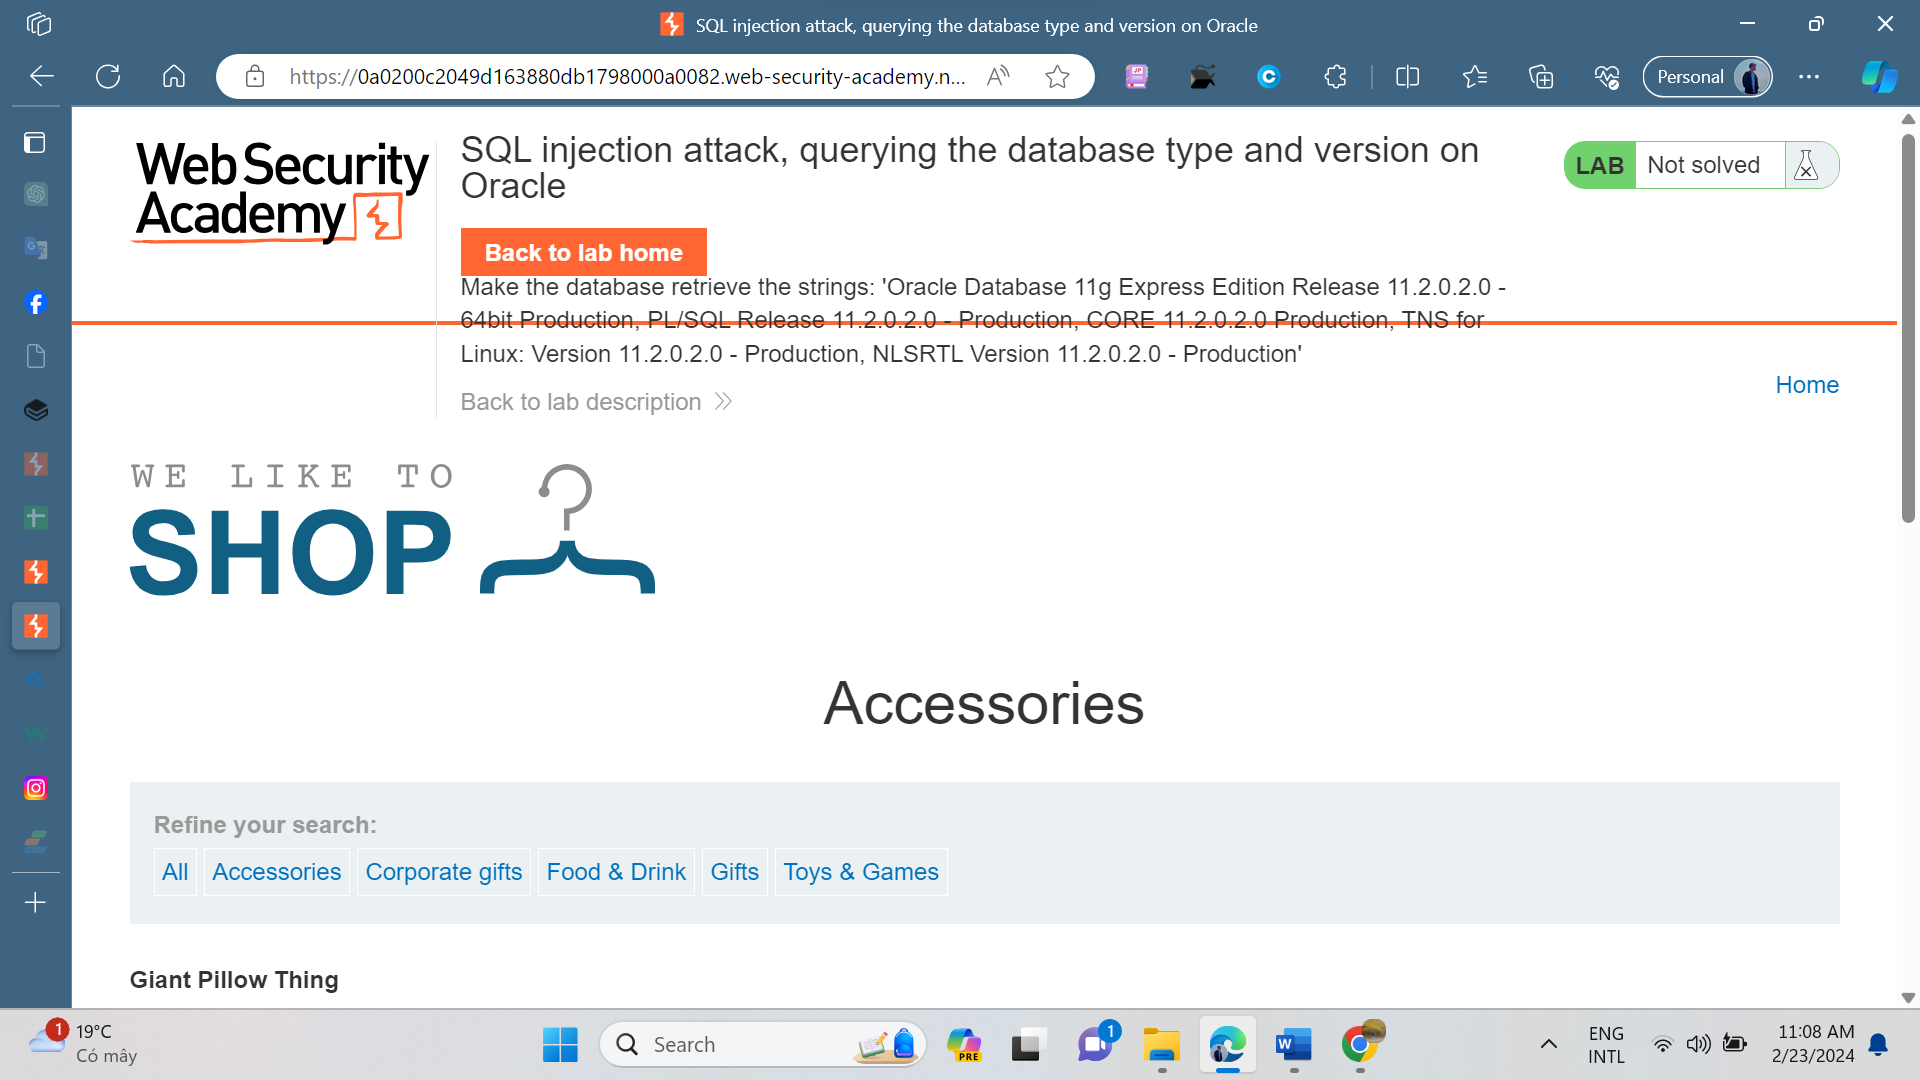
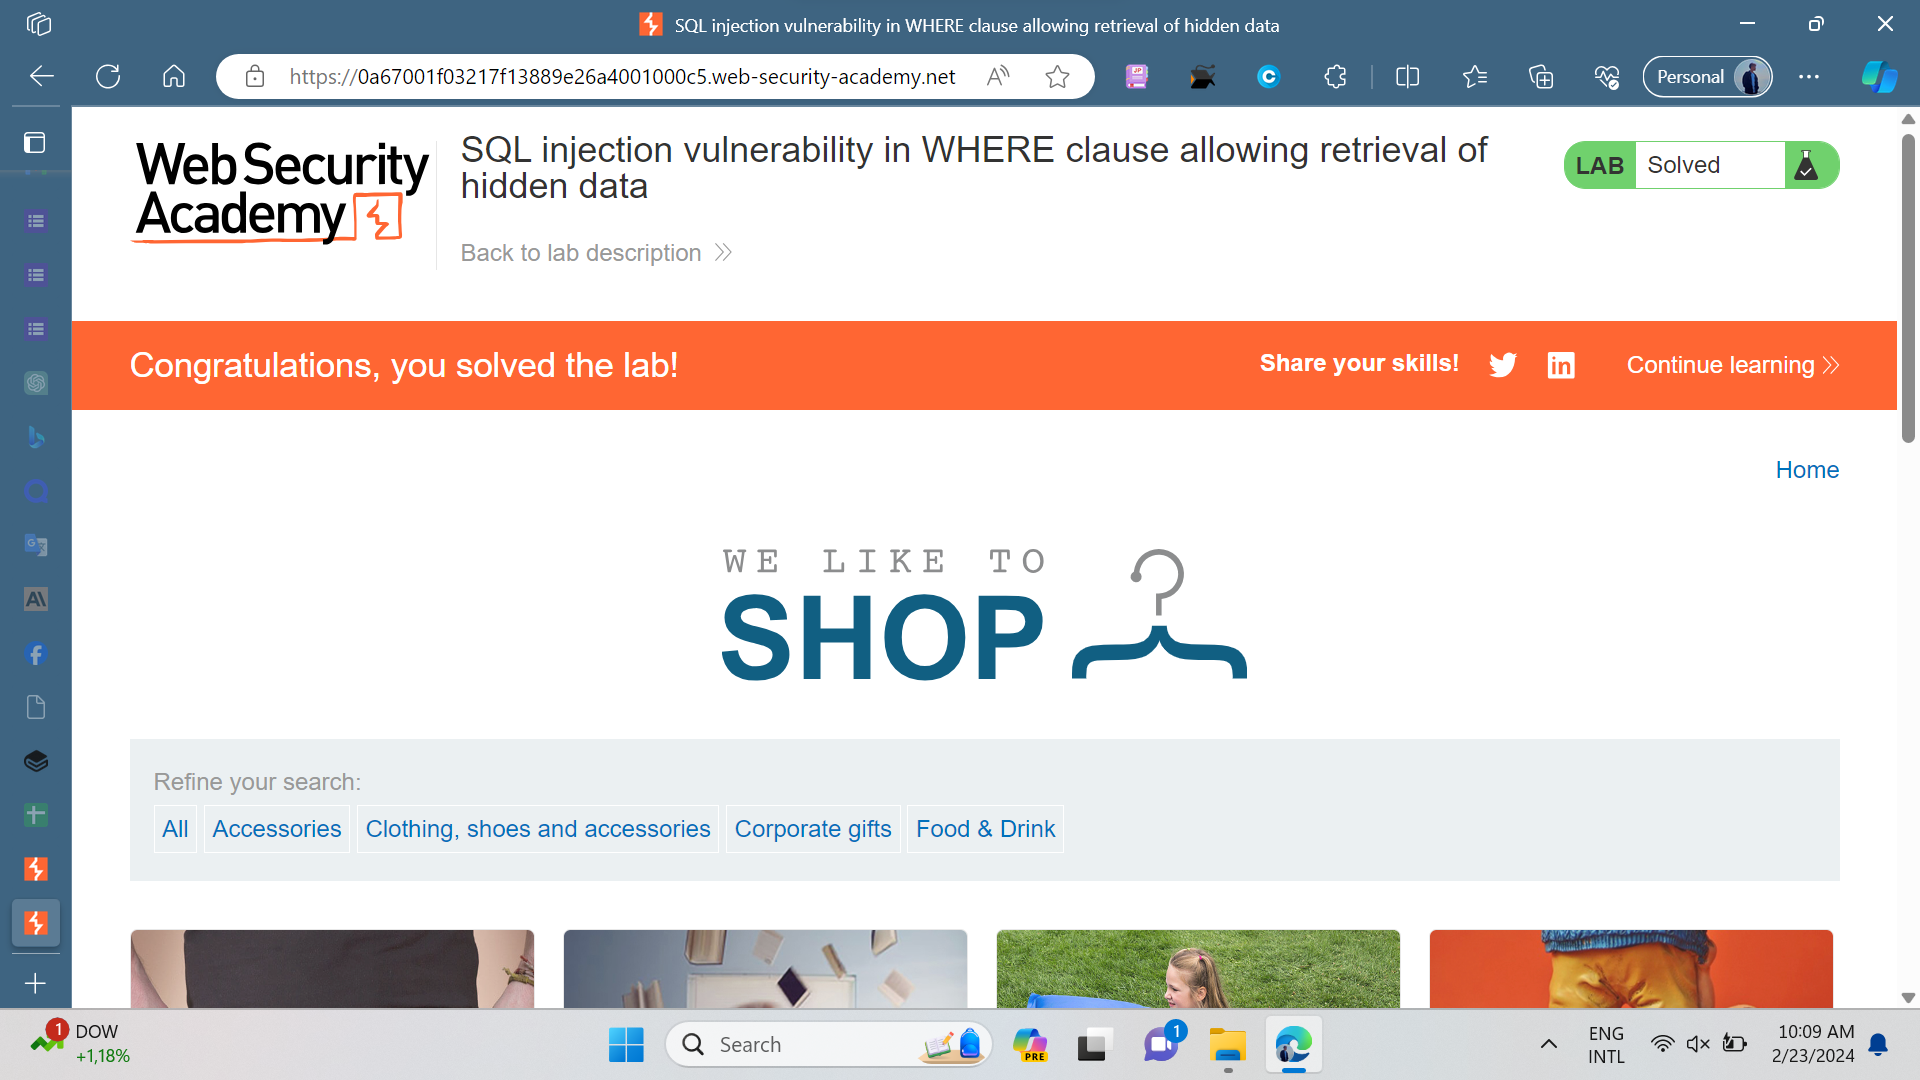
GITBOOK-8: No subject

diff --git a/sql-injection.md b/sql-injection.md
@@ -10,19 +10,19 @@ To solve the lab, perform a SQL injection attack that causes the application to 
 
 ở bài lab này, ta sẽ tập trung vào tìm kiếm lỗ hổng trong database của 1 website.
 
-<figure><img src=".gitbook/assets/image.png" alt=""><figcaption><p>giao diện website</p></figcaption></figure>
+<figure><img src=".gitbook/assets/image (4).png" alt=""><figcaption><p>giao diện website</p></figcaption></figure>
 
 nhìn qua webstie này ta biết nó trưng bày các mặt hàng. vậy ta sẽ thử click vào một mặt hàng bất kì xem sao.
 
-<figure><img src=".gitbook/assets/image (1).png" alt=""><figcaption></figcaption></figure>
+<figure><img src=".gitbook/assets/image (1) (1).png" alt=""><figcaption></figcaption></figure>
 
 khi ta chọn accessories, thì trên thanh url của website sẽ hiện category=Accessories. ở đây mình suy nghĩ là "sẽ ra sao nếu chúng ta chèn 1 kí tư lạ vào category"
 
-<figure><img src=".gitbook/assets/image (2).png" alt=""><figcaption><p>website sau khi chèn kí tự lạ</p></figcaption></figure>
+<figure><img src=".gitbook/assets/image (2) (1).png" alt=""><figcaption><p>website sau khi chèn kí tự lạ</p></figcaption></figure>
 
 ở đây mình sử dụng "category=' ". và trang web đã hiện ra lỗi hệ thống thay vì trả về kết quả thông thường như "không tìm thấy " hay hiện ra list đồ. từ đó, ta biết được website đã có lỗi trong database. để khai thác vào lỗi này mình sủ dụng category=%27+OR+1=1--
 
-<figure><img src=".gitbook/assets/image (3).png" alt=""><figcaption><p>kết quả cuộc tấn công</p></figcaption></figure>
+<figure><img src=".gitbook/assets/image (3) (1).png" alt=""><figcaption><p>kết quả cuộc tấn công</p></figcaption></figure>
 
 ## Lab: [SQL injection](https://portswigger.net/web-security/sql-injection) attack, querying the database type and version on Oracle
 
@@ -38,4 +38,26 @@ There is a built-in table on Oracle called `dual` which you can use for this pur
 
 For more information, see our [SQL injection cheat sheet](https://portswigger.net/web-security/sql-injection/cheat-sheet).
 
-<figure><img src=".gitbook/assets/image (4).png" alt=""><figcaption></figcaption></figure>
+<figure><img src=".gitbook/assets/image (4) (1).png" alt=""><figcaption><p>giao diện bài lab</p></figcaption></figure>
+
+ở bài lab này, tác giả yêu cầu ta khai thác version của trang web này vả tiết lộ rằng database của trang web này sử dụng phần mềm cùa oracle. đầu tiên ta sẽ thao tác cơ bản với web và bắt gói tin tại burp-suite. tại http history. ta sẽ gửi GET /filter?category=Gifts đến repeater.
+
+<figure><img src=".gitbook/assets/image.png" alt=""><figcaption></figcaption></figure>
+
+tại đây ta sẽ thử tìm lỗi sql thông qua câu lệnh cơ bản '+SELECT+'abc'+FROM+dual-- và trang web trả về lỗi server. câu truy vấn này lỗi bởi vì mình thiếu UNION để thực thi 2 câu truy vấn cùng lúc và cùng với đó mình nhận ra rằng câu truy vấn trả vè một bảng bị lỗi bới vì qua quan sát, mình nhìn thấy nội dung trả về của trang web sẽ là title + script. vì vậy, ta sẽ thay đổi câu truy vấn của mình 1 chút.
+
+<figure><img src=".gitbook/assets/image (1).png" alt=""><figcaption><p>sau khi thay đổi câu truy vấn</p></figcaption></figure>
+
+mình sẽ thay đổi thành '+UNION+SELECT+'abc','def'+FROM+dual-- . trang web đã in ra abc def như ta yêu cầu. vì vậy, chúng ta đã tìm được cách ép server in ra mà ta mong muốn. việc còn lại là tìm ra câu lệnh in ra phiên bản của database như yêu cầu.
+
+<figure><img src=".gitbook/assets/image (2).png" alt=""><figcaption></figcaption></figure>
+
+ta đọc lại hint của đề bài, tác giả đã cho ta 1 cheatseet về SQL Injecttion. và ta đã tìm được câu lệnh trả về version. ở đây loại database mà chúng ta thao tác là của Oracle. &#x20;
+
+SELECT banner FROM v$version. vì vậy câu truy vấn cuối cung của ta sẽ là
+
+'UNION+SELECT+banner,'def'+from+v$version--
+
+<figure><img src=".gitbook/assets/image (3).png" alt=""><figcaption></figcaption></figure>
+
+vậy ta đã in ra thành công version của website và giải quyết challenge này.
